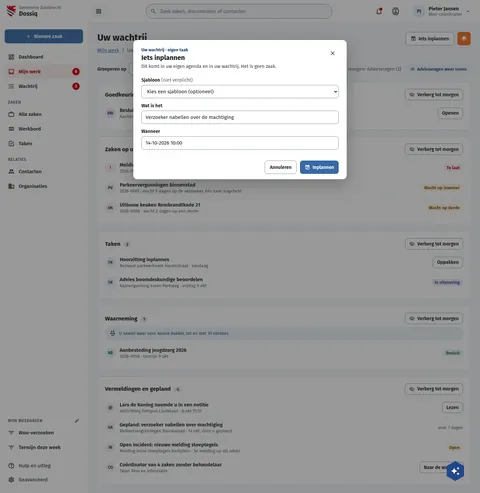
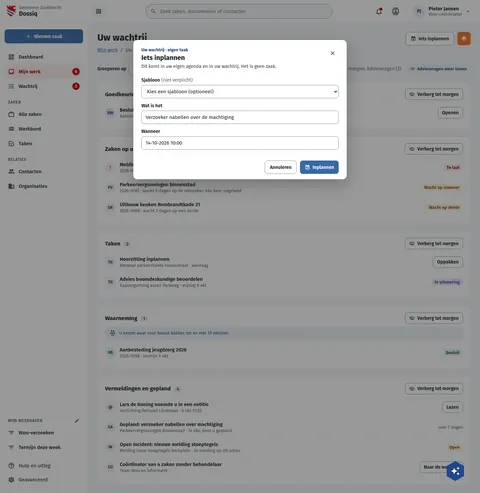
fix(screens): DqAanMijToegewezen and DqUwWachtrij draw the crumb trail at 14px
TOOL settled the list header trail (R20/TOOL/trail-14-vs-15.md): 12 of 14
boards draw the crumbs and the note under the title at 14px; these two drew
15. The count and greeting lines elsewhere are not the trail and stay 15.
DqAanMijToegewezen height 1013 -> 1012; screens.json for that board only.

Assisted-by: ClaudeCode:claude-opus-5-5

diff --git a/preview/screens/boards/DqUwWachtrij.html b/preview/screens/boards/DqUwWachtrij.html
@@ -143,7 +143,7 @@ a{color:var(--sc-primary, #3669a5)}a:hover{color:var(--sc-primary-deep, #234a78)
             <h1 style="flex: 1 1 320px; min-width: 0; margin: 0; font-size: 28px; font-weight: 700; line-height: 1.2">Uw wachtrij</h1>
             <div style="flex: none; display: flex; flex-wrap: wrap; gap: 10px"><button type="button" style="display: inline-flex; align-items: center; gap: 8px; height: 40px; padding: 0 14px; border-radius: 8px; font: 600 14px var(--sc-font, 'Fira Sans'), sans-serif; white-space: nowrap; border: 1px solid var(--sc-work-field, #828a95); background: #ffffff; color: var(--sc-work-ink, #1b1c1d)"><svg width="16" height="16" viewbox="0 0 24 24" fill="currentColor" aria-hidden="true"><path d="M19 19V8H5V19H19M16 1H18V3H19C20.11 3 21 3.9 21 5V19C21 20.11 20.11 21 19 21H5C3.89 21 3 20.1 3 19V5C3 3.89 3.89 3 5 3H6V1H8V3H16V1M11 9.5H13V12.5H16V14.5H13V17.5H11V14.5H8V12.5H11V9.5Z"></path></svg>Iets inplannen</button><button type="button" aria-label="buildiq" title="buildiq" style="display: flex; align-items: center; justify-content: center; width: 40px; height: 40px; border: 0; border-radius: 8px; background: #f36c21; color: #ffffff"><svg width="20" height="20" viewbox="0 0 24 24" fill="currentColor" aria-hidden="true"><path d="M12,16L19.36,10.27L21,9L12,2L3,9L4.63,10.27M12,18.54L4.62,12.81L3,14.07L12,21.07L21,14.07L19.37,12.8L12,18.54Z"></path></svg></button></div>
           </div>
-          <div style="display: flex; flex-wrap: wrap; gap: 8px; align-items: center; font-size: 15px; color: var(--sc-work-muted, #5e6168); min-width: 0"><nav aria-label="Kruimelpad" style="display: flex; gap: 8px"><a href="DqMijnWerk.html">Mijn werk</a><span aria-hidden="true">/</span><span aria-current="page">Uw wachtrij</span></nav><span aria-hidden="true">·</span><span>11 dingen wachten op u, het dringendste eerst</span></div>
+          <div style="display: flex; flex-wrap: wrap; gap: 8px; align-items: center; font-size: 14px; color: var(--sc-work-muted, #5e6168); min-width: 0"><nav aria-label="Kruimelpad" style="display: flex; gap: 8px"><a href="DqMijnWerk.html">Mijn werk</a><span aria-hidden="true">/</span><span aria-current="page">Uw wachtrij</span></nav><span aria-hidden="true">·</span><span>11 dingen wachten op u, het dringendste eerst</span></div>
         </section>
         <div style="display: flex; flex-wrap: wrap; gap: 16px; align-items: center"><label style="display: inline-flex; align-items: center; gap: 8px; font-size: 14px; font-weight: 600">Groeperen op<select style="height: 38px; padding: 0 10px; border: 1px solid var(--sc-work-field, #828a95); border-radius: 8px; background: #ffffff; font: 400 14px var(--sc-font, 'Fira Sans'), sans-serif"><option selected>Bron</option><option>Prioriteit</option><option>Termijn</option></select></label><span style="flex: 1"></span><span style="font-size: 14px; color: var(--sc-work-muted, #5e6168)">Verborgen tot morgen: Adviesvragen (2)</span><button type="button" style="display: inline-flex; align-items: center; gap: 6px; height: 34px; padding: 0 12px; border: 0; border-radius: 17px; background: var(--sc-primary-light, #eaf0f7); color: var(--sc-primary-deep, #234a78); font: 600 13px var(--sc-font, 'Fira Sans'), sans-serif; white-space: nowrap"><svg width="14" height="14" viewbox="0 0 24 24" fill="currentColor" aria-hidden="true"><path d="M12,9A3,3 0 0,1 15,12A3,3 0 0,1 12,15A3,3 0 0,1 9,12A3,3 0 0,1 12,9M12,4.5C17,4.5 21.27,7.61 23,12C21.27,16.39 17,19.5 12,19.5C7,19.5 2.73,16.39 1,12C2.73,7.61 7,4.5 12,4.5M3.18,12C4.83,15.36 8.24,17.5 12,17.5C15.76,17.5 19.17,15.36 20.82,12C19.17,8.64 15.76,6.5 12,6.5C8.24,6.5 4.83,8.64 3.18,12Z"></path></svg>Adviesvragen weer tonen</button></div>
         <section style="background: #ffffff; border: 1px solid var(--sc-work-line, #e4e6ea); border-radius: 12px; padding: 20px 22px; display: flex; flex-direction: column; gap: 8px"><div style="display: flex; flex-wrap: wrap; justify-content: space-between; align-items: center; gap: 8px"><h2 style="margin: 0; font-size: 17px; font-weight: 700">Goedkeuringen <span style="margin-left: 6px; padding: 1px 8px; border-radius: 10px; background: var(--sc-work-line, #e4e6ea); color: var(--sc-work-text, #3d4047); font-size: 12px">1</span></h2><button type="button" style="display: inline-flex; align-items: center; gap: 8px; height: 34px; padding: 0 12px; border-radius: 8px; font: 600 14px var(--sc-font, 'Fira Sans'), sans-serif; white-space: nowrap; border: 1px solid var(--sc-work-field, #828a95); background: #ffffff; color: var(--sc-work-ink, #1b1c1d)"><svg width="16" height="16" viewbox="0 0 24 24" fill="currentColor" aria-hidden="true"><path d="M2,5.27L3.28,4L20,20.72L18.73,22L15.65,18.92C14.5,19.3 13.28,19.5 12,19.5C7,19.5 2.73,16.39 1,12C1.69,10.24 2.79,8.69 4.19,7.46L2,5.27M12,9A3,3 0 0,1 15,12C15,12.35 14.94,12.69 14.83,13L11,9.17C11.31,9.06 11.65,9 12,9M12,4.5C17,4.5 21.27,7.61 23,12C22.18,14.08 20.79,15.88 19,17.19L17.58,15.76C18.94,14.82 20.06,13.54 20.82,12C19.17,8.64 15.76,6.5 12,6.5C10.91,6.5 9.84,6.68 8.84,7L7.3,5.47C8.74,4.85 10.33,4.5 12,4.5M3.18,12C4.83,15.36 8.24,17.5 12,17.5C12.69,17.5 13.37,17.43 14,17.29L11.72,15C10.29,14.85 9.15,13.71 9,12.28L5.6,8.87C4.61,9.72 3.78,10.78 3.18,12Z"></path></svg>Verberg tot morgen</button></div><ul style="margin: 0; padding: 0; list-style: none; display: flex; flex-direction: column"><li style="display: flex; flex-wrap: wrap; gap: 8px 16px; align-items: center; padding: 12px 0; border-top: 1px solid var(--sc-work-soft, #eef0f3)"><span style="flex: 1 1 260px; min-width: 0; display: flex; gap: 12px; align-items: center"><span aria-hidden="true" style="width: 32px; height: 32px; flex: none; border-radius: 16px; background: #e8e6f6; color: #4a3f8f; display: inline-flex; align-items: center; justify-content: center; font-size: 12px; font-weight: 700">BW</span><span style="display: flex; flex-direction: column; gap: 2px; min-width: 0"><strong style="font-size: 15px; font-weight: 600">Besluit op Woo-verzoek 2026-0058 paraferen</strong><span style="font-size: 13px; color: var(--sc-work-muted, #5e6168)">Aanbesteding jeugdzorg 2026 · gevraagd door Anouk Bakker, gisteren</span></span></span><span style="flex: none; display: flex; flex-wrap: wrap; gap: 8px; align-items: center"><button type="button" style="display: inline-flex; align-items: center; gap: 8px; height: 34px; padding: 0 12px; border-radius: 8px; font: 600 14px var(--sc-font, 'Fira Sans'), sans-serif; white-space: nowrap; border: 1px solid var(--sc-work-field, #828a95); background: #ffffff; color: var(--sc-work-ink, #1b1c1d)">Openen</button></span></li></ul></section>

diff --git a/screens-src/zuiddrecht/DqUwWachtrij.dc.html b/screens-src/zuiddrecht/DqUwWachtrij.dc.html
@@ -25,7 +25,7 @@ a{color:#3669a5}a:hover{color:#234a78}
             <h1 style="flex: 1 1 320px; min-width: 0; margin: 0; font-size: 28px; font-weight: 700; line-height: 1.2">Uw wachtrij</h1>
             <div style="flex: none; display: flex; flex-wrap: wrap; gap: 10px"><button type="button" style="display: inline-flex; align-items: center; gap: 8px; height: 40px; padding: 0 14px; border-radius: 8px; font: 600 14px 'Fira Sans', sans-serif; white-space: nowrap; border: 1px solid #828a95; background: #ffffff; color: #1b1c1d"><svg width="16" height="16" viewBox="0 0 24 24" fill="currentColor" aria-hidden="true"><path d="M19 19V8H5V19H19M16 1H18V3H19C20.11 3 21 3.9 21 5V19C21 20.11 20.11 21 19 21H5C3.89 21 3 20.1 3 19V5C3 3.89 3.89 3 5 3H6V1H8V3H16V1M11 9.5H13V12.5H16V14.5H13V17.5H11V14.5H8V12.5H11V9.5Z"></path></svg>Iets inplannen</button><button type="button" aria-label="buildiq" title="buildiq" style="display: flex; align-items: center; justify-content: center; width: 40px; height: 40px; border: 0; border-radius: 8px; background: #f36c21; color: #ffffff"><svg width="20" height="20" viewBox="0 0 24 24" fill="currentColor" aria-hidden="true"><path d="M12,16L19.36,10.27L21,9L12,2L3,9L4.63,10.27M12,18.54L4.62,12.81L3,14.07L12,21.07L21,14.07L19.37,12.8L12,18.54Z"></path></svg></button></div>
           </div>
-          <div style="display: flex; flex-wrap: wrap; gap: 8px; align-items: center; font-size: 15px; color: #5e6168; min-width: 0"><nav aria-label="Kruimelpad" style="display: flex; gap: 8px"><a href="DqMijnWerk.dc.html">Mijn werk</a><span aria-hidden="true">/</span><span aria-current="page">Uw wachtrij</span></nav><span aria-hidden="true">·</span><span>11 dingen wachten op u, het dringendste eerst</span></div>
+          <div style="display: flex; flex-wrap: wrap; gap: 8px; align-items: center; font-size: 14px; color: #5e6168; min-width: 0"><nav aria-label="Kruimelpad" style="display: flex; gap: 8px"><a href="DqMijnWerk.dc.html">Mijn werk</a><span aria-hidden="true">/</span><span aria-current="page">Uw wachtrij</span></nav><span aria-hidden="true">·</span><span>11 dingen wachten op u, het dringendste eerst</span></div>
         </section>
         <div style="display: flex; flex-wrap: wrap; gap: 16px; align-items: center"><label style="display: inline-flex; align-items: center; gap: 8px; font-size: 14px; font-weight: 600">Groeperen op<select style="height: 38px; padding: 0 10px; border: 1px solid #828a95; border-radius: 8px; background: #ffffff; font: 400 14px 'Fira Sans', sans-serif"><option selected>Bron</option><option>Prioriteit</option><option>Termijn</option></select></label><span style="flex: 1"></span><span style="font-size: 14px; color: #5e6168">Verborgen tot morgen: Adviesvragen (2)</span><button type="button" style="display: inline-flex; align-items: center; gap: 6px; height: 34px; padding: 0 12px; border: 0; border-radius: 17px; background: #eaf0f7; color: #234a78; font: 600 13px 'Fira Sans', sans-serif; white-space: nowrap"><svg width="14" height="14" viewBox="0 0 24 24" fill="currentColor" aria-hidden="true"><path d="M12,9A3,3 0 0,1 15,12A3,3 0 0,1 12,15A3,3 0 0,1 9,12A3,3 0 0,1 12,9M12,4.5C17,4.5 21.27,7.61 23,12C21.27,16.39 17,19.5 12,19.5C7,19.5 2.73,16.39 1,12C2.73,7.61 7,4.5 12,4.5M3.18,12C4.83,15.36 8.24,17.5 12,17.5C15.76,17.5 19.17,15.36 20.82,12C19.17,8.64 15.76,6.5 12,6.5C8.24,6.5 4.83,8.64 3.18,12Z"></path></svg>Adviesvragen weer tonen</button></div>
         <section style="background: #ffffff; border: 1px solid #e4e6ea; border-radius: 12px; padding: 20px 22px; display: flex; flex-direction: column; gap: 8px"><div style="display: flex; flex-wrap: wrap; justify-content: space-between; align-items: center; gap: 8px"><h2 style="margin: 0; font-size: 17px; font-weight: 700">Goedkeuringen <span style="margin-left: 6px; padding: 1px 8px; border-radius: 10px; background: #e4e6ea; color: #3d4047; font-size: 12px">1</span></h2><button type="button" style="display: inline-flex; align-items: center; gap: 8px; height: 34px; padding: 0 12px; border-radius: 8px; font: 600 14px 'Fira Sans', sans-serif; white-space: nowrap; border: 1px solid #828a95; background: #ffffff; color: #1b1c1d"><svg width="16" height="16" viewBox="0 0 24 24" fill="currentColor" aria-hidden="true"><path d="M2,5.27L3.28,4L20,20.72L18.73,22L15.65,18.92C14.5,19.3 13.28,19.5 12,19.5C7,19.5 2.73,16.39 1,12C1.69,10.24 2.79,8.69 4.19,7.46L2,5.27M12,9A3,3 0 0,1 15,12C15,12.35 14.94,12.69 14.83,13L11,9.17C11.31,9.06 11.65,9 12,9M12,4.5C17,4.5 21.27,7.61 23,12C22.18,14.08 20.79,15.88 19,17.19L17.58,15.76C18.94,14.82 20.06,13.54 20.82,12C19.17,8.64 15.76,6.5 12,6.5C10.91,6.5 9.84,6.68 8.84,7L7.3,5.47C8.74,4.85 10.33,4.5 12,4.5M3.18,12C4.83,15.36 8.24,17.5 12,17.5C12.69,17.5 13.37,17.43 14,17.29L11.72,15C10.29,14.85 9.15,13.71 9,12.28L5.6,8.87C4.61,9.72 3.78,10.78 3.18,12Z"></path></svg>Verberg tot morgen</button></div><ul style="margin: 0; padding: 0; list-style: none; display: flex; flex-direction: column"><li style="display: flex; flex-wrap: wrap; gap: 8px 16px; align-items: center; padding: 12px 0; border-top: 1px solid #eef0f3"><span style="flex: 1 1 260px; min-width: 0; display: flex; gap: 12px; align-items: center"><span aria-hidden="true" style="width: 32px; height: 32px; flex: none; border-radius: 16px; background: #e8e6f6; color: #4a3f8f; display: inline-flex; align-items: center; justify-content: center; font-size: 12px; font-weight: 700">BW</span><span style="display: flex; flex-direction: column; gap: 2px; min-width: 0"><strong style="font-size: 15px; font-weight: 600">Besluit op Woo-verzoek 2026-0058 paraferen</strong><span style="font-size: 13px; color: #5e6168">Aanbesteding jeugdzorg 2026 · gevraagd door Anouk Bakker, gisteren</span></span></span><span style="flex: none; display: flex; flex-wrap: wrap; gap: 8px; align-items: center"><button type="button" style="display: inline-flex; align-items: center; gap: 8px; height: 34px; padding: 0 12px; border-radius: 8px; font: 600 14px 'Fira Sans', sans-serif; white-space: nowrap; border: 1px solid #828a95; background: #ffffff; color: #1b1c1d">Openen</button></span></li></ul></section>

diff --git a/preview/screens/boards/DqAanMijToegewezen.html b/preview/screens/boards/DqAanMijToegewezen.html
@@ -143,7 +143,7 @@ a{color:var(--sc-primary, #3669a5)}a:hover{color:var(--sc-primary-deep, #234a78)
             <h1 style="flex: 1 1 320px; min-width: 0; margin: 0; font-size: 28px; font-weight: 700; line-height: 1.2">Aan mij toegewezen</h1>
             <div style="flex: none; display: flex; flex-wrap: wrap; gap: 10px"><button type="button" aria-haspopup="menu" style="display: flex; align-items: center; gap: 8px; height: 40px; padding: 0 14px; border: 1px solid var(--sc-work-field, #828a95); border-radius: 8px; background: #ffffff; font: 600 14px var(--sc-font, 'Fira Sans'), sans-serif; color: var(--sc-work-ink, #1b1c1d)"><svg width="16" height="16" viewbox="0 0 24 24" fill="currentColor" aria-hidden="true"><path d="M16,12A2,2 0 0,1 18,10A2,2 0 0,1 20,12A2,2 0 0,1 18,14A2,2 0 0,1 16,12M10,12A2,2 0 0,1 12,10A2,2 0 0,1 14,12A2,2 0 0,1 12,14A2,2 0 0,1 10,12M4,12A2,2 0 0,1 6,10A2,2 0 0,1 8,12A2,2 0 0,1 6,14A2,2 0 0,1 4,12Z"></path></svg>Acties</button><button type="button" aria-label="buildiq" title="buildiq" style="display: flex; align-items: center; justify-content: center; width: 40px; height: 40px; border: 0; border-radius: 8px; background: #f36c21; color: #ffffff"><svg width="20" height="20" viewbox="0 0 24 24" fill="currentColor" aria-hidden="true"><path d="M12,16L19.36,10.27L21,9L12,2L3,9L4.63,10.27M12,18.54L4.62,12.81L3,14.07L12,21.07L21,14.07L19.37,12.8L12,18.54Z"></path></svg></button><button type="button" style="display: inline-flex; align-items: center; gap: 8px; height: 40px; padding: 0 14px; border-radius: 8px; font: 600 14px var(--sc-font, 'Fira Sans'), sans-serif; white-space: nowrap; border: 0; background: var(--sc-primary, #3669a5); color: #ffffff"><svg width="16" height="16" viewbox="0 0 24 24" fill="currentColor" aria-hidden="true"><path d="M19,13H13V19H11V13H5V11H11V5H13V11H19V13Z"></path></svg>Nieuwe zaak</button></div>
           </div>
-          <div style="display: flex; flex-wrap: wrap; gap: 8px; align-items: center; font-size: 15px; color: var(--sc-work-muted, #5e6168); min-width: 0"><nav aria-label="Kruimelpad" style="display: flex; gap: 8px"><a href="DqMijnWerk.html">Mijn werk</a><span aria-hidden="true">/</span><span aria-current="page">Aan mij toegewezen</span></nav><span aria-hidden="true">·</span><span>7 zaken op uw naam, waarvan 1 als waarnemer · meest urgente eerst</span></div>
+          <div style="display: flex; flex-wrap: wrap; gap: 8px; align-items: center; font-size: 14px; color: var(--sc-work-muted, #5e6168); min-width: 0"><nav aria-label="Kruimelpad" style="display: flex; gap: 8px"><a href="DqMijnWerk.html">Mijn werk</a><span aria-hidden="true">/</span><span aria-current="page">Aan mij toegewezen</span></nav><span aria-hidden="true">·</span><span>7 zaken op uw naam, waarvan 1 als waarnemer · meest urgente eerst</span></div>
         </section>
         <div style="display: flex; flex-direction: column; gap: 2px"><h2 style="margin: 0; font-size: 18px; font-weight: 700">Werkverdeling van het team</h2><span style="font-size: 14px; color: var(--sc-work-muted, #5e6168)">Open zaken per collega in uw teams. Kies een naam om diens werk te zien.</span></div>
 <div style="display: flex; flex-wrap: wrap; gap: 8px; align-items: center">

diff --git a/screens-src/zuiddrecht/DqAanMijToegewezen.dc.html b/screens-src/zuiddrecht/DqAanMijToegewezen.dc.html
@@ -25,7 +25,7 @@ a{color:#3669a5}a:hover{color:#234a78}
             <h1 style="flex: 1 1 320px; min-width: 0; margin: 0; font-size: 28px; font-weight: 700; line-height: 1.2">Aan mij toegewezen</h1>
             <div style="flex: none; display: flex; flex-wrap: wrap; gap: 10px"><button type="button" aria-haspopup="menu" style="display: flex; align-items: center; gap: 8px; height: 40px; padding: 0 14px; border: 1px solid #828a95; border-radius: 8px; background: #ffffff; font: 600 14px 'Fira Sans', sans-serif; color: #1b1c1d"><svg width="16" height="16" viewBox="0 0 24 24" fill="currentColor" aria-hidden="true"><path d="M16,12A2,2 0 0,1 18,10A2,2 0 0,1 20,12A2,2 0 0,1 18,14A2,2 0 0,1 16,12M10,12A2,2 0 0,1 12,10A2,2 0 0,1 14,12A2,2 0 0,1 12,14A2,2 0 0,1 10,12M4,12A2,2 0 0,1 6,10A2,2 0 0,1 8,12A2,2 0 0,1 6,14A2,2 0 0,1 4,12Z"></path></svg>Acties</button><button type="button" aria-label="buildiq" title="buildiq" style="display: flex; align-items: center; justify-content: center; width: 40px; height: 40px; border: 0; border-radius: 8px; background: #f36c21; color: #ffffff"><svg width="20" height="20" viewBox="0 0 24 24" fill="currentColor" aria-hidden="true"><path d="M12,16L19.36,10.27L21,9L12,2L3,9L4.63,10.27M12,18.54L4.62,12.81L3,14.07L12,21.07L21,14.07L19.37,12.8L12,18.54Z"></path></svg></button><button type="button" style="display: inline-flex; align-items: center; gap: 8px; height: 40px; padding: 0 14px; border-radius: 8px; font: 600 14px 'Fira Sans', sans-serif; white-space: nowrap; border: 0; background: #3669a5; color: #ffffff"><svg width="16" height="16" viewBox="0 0 24 24" fill="currentColor" aria-hidden="true"><path d="M19,13H13V19H11V13H5V11H11V5H13V11H19V13Z"></path></svg>Nieuwe zaak</button></div>
           </div>
-          <div style="display: flex; flex-wrap: wrap; gap: 8px; align-items: center; font-size: 15px; color: #5e6168; min-width: 0"><nav aria-label="Kruimelpad" style="display: flex; gap: 8px"><a href="DqMijnWerk.dc.html">Mijn werk</a><span aria-hidden="true">/</span><span aria-current="page">Aan mij toegewezen</span></nav><span aria-hidden="true">·</span><span>7 zaken op uw naam, waarvan 1 als waarnemer · meest urgente eerst</span></div>
+          <div style="display: flex; flex-wrap: wrap; gap: 8px; align-items: center; font-size: 14px; color: #5e6168; min-width: 0"><nav aria-label="Kruimelpad" style="display: flex; gap: 8px"><a href="DqMijnWerk.dc.html">Mijn werk</a><span aria-hidden="true">/</span><span aria-current="page">Aan mij toegewezen</span></nav><span aria-hidden="true">·</span><span>7 zaken op uw naam, waarvan 1 als waarnemer · meest urgente eerst</span></div>
         </section>
         <div style="display: flex; flex-direction: column; gap: 2px"><h2 style="margin: 0; font-size: 18px; font-weight: 700">Werkverdeling van het team</h2><span style="font-size: 14px; color: #5e6168">Open zaken per collega in uw teams. Kies een naam om diens werk te zien.</span></div>
 <div style="display: flex; flex-wrap: wrap; gap: 8px; align-items: center">
